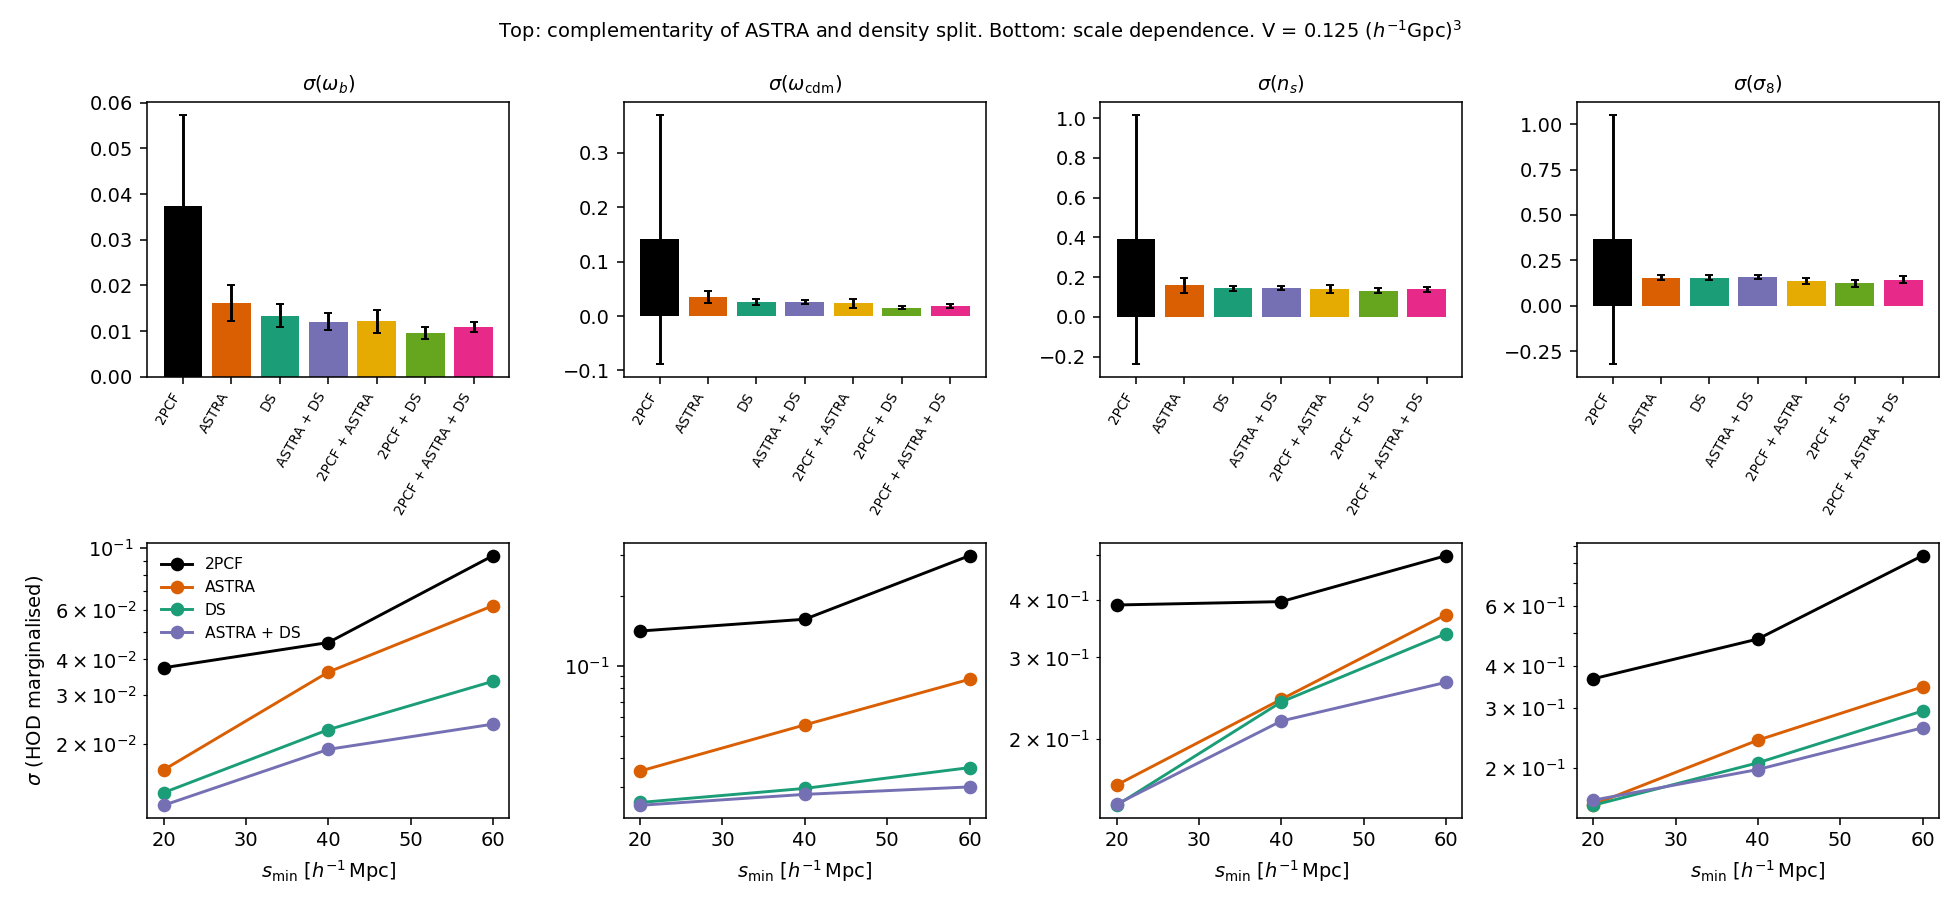
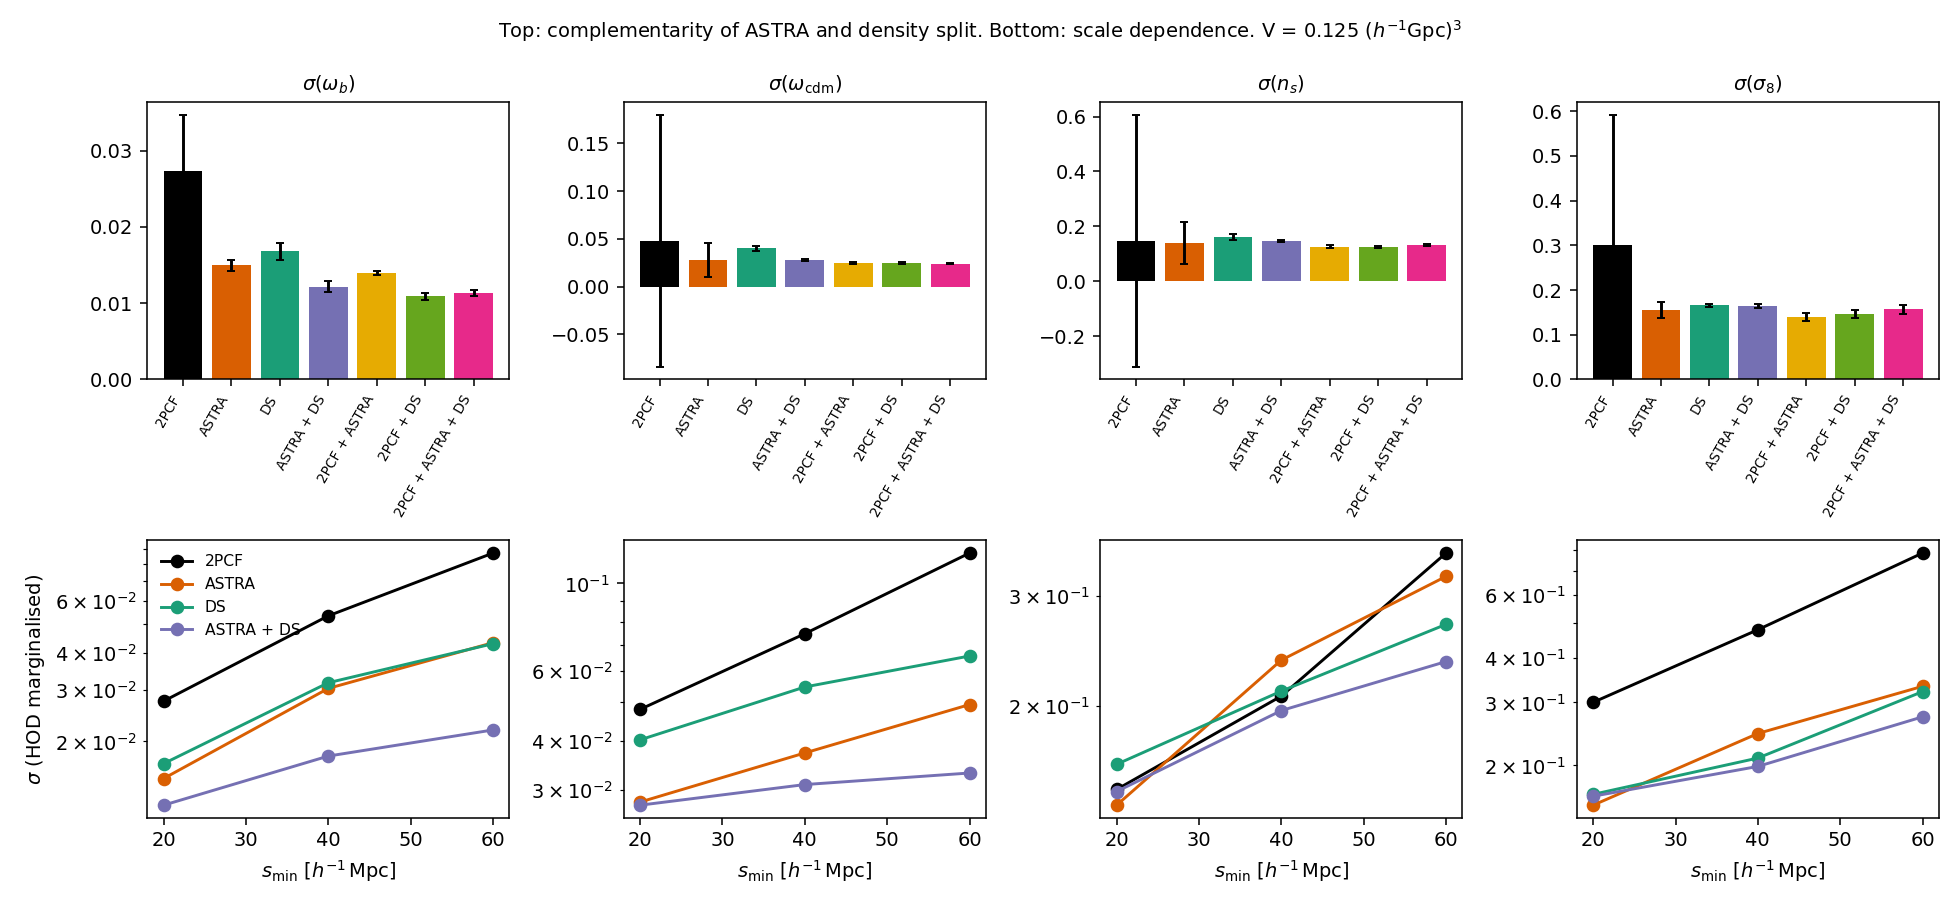
Options b/c: pair-difference loss, small-scale weight, held-out local validation, reduced pair regression

diff --git a/scripts/validate_local.py b/scripts/validate_local.py
@@ -1,0 +1,100 @@
+#!/usr/bin/env python
+"""
+Test of the emulator on the quantity the Fisher derivatives rely on: the
+differences between catalogues of the derivative grid near the fiducial HOD.
+
+The catalogues listed in data/pair_dataset.npz['holdout'] (4 local HOD
+draws per grid cosmology) are excluded from the training of the emulators
+compared here. For every grid pair (c+, c-) we form all held-out pairs
+(h_i in c+, h_j in c-) and compare the measured difference (paired subboxes,
+precise) with the emulator prediction.
+
+Metrics per statistic and parameter:
+  rel  = || emu - sim || / || sim ||          (whole difference vector)
+  chi  = rms((emu - sim) / sigma_box)         (in units of the error of one box)
+
+    python scripts/validate_local.py models_val_base models_val_pairs models_val_pairs_ssw
+Outputs: data/validate_local.json, plots/validate_local.png
+"""
+
+import sys
+import json
+import argparse
+from pathlib import Path
+from itertools import product
+
+import numpy as np
+import torch
+import matplotlib
+matplotlib.use('Agg')
+import matplotlib.pyplot as plt
+
+ROOT = Path(__file__).resolve().parents[1]
+sys.path.insert(0, str(ROOT))
+import analysis as A
+import emulator as E
+from build_pair_dataset import GRID
+
+STATS = ['gg', 'astra_rand_cross_q1', 'astra_rand_cross_q4', 'ds_rand_cross_q1', 'ds_rand_cross_q4',
+         'astra_data_cross_q4', 'ds_data_cross_q4']
+NAMES = {(100, 101): 'omega_b', (102, 103): 'omega_cdm', (104, 105): 'n_s', (106, 107): 'alpha_s',
+         (108, 109): 'w0', (110, 111): 'w0-wa', (112, 113): 'sigma8'}
+
+
+def main():
+    parser = argparse.ArgumentParser()
+    parser.add_argument('models', nargs='+', type=Path)
+    args = parser.parse_args()
+    pairs = np.load(A.DATA / 'pair_dataset.npz')
+    d = np.load(A.DATA / 'emulator_dataset.npz')
+    held = [tuple(map(int, x)) for x in pairs['holdout_ids']]
+    sub = {k: A.load(*k, los=['z']) for k in held}
+    res = {}
+    for st in STATS:
+        X, Y, ids, s, _ = E.load_dataset(st)
+        row = {(int(c), int(h)): i for i, (c, h) in enumerate(ids)}
+        sig = E.statistical_error(st)
+        emus = {m.name: E.Emulator.load(st, m) for m in args.models}
+        for cp, cm in GRID:
+            hp = [k for k in held if k[0] == cp]
+            hm = [k for k in held if k[0] == cm]
+            for a, b in product(hp, hm):
+                ma, sa, ia = sub[a]
+                mb, sb, ib = sub[b]
+                sim = A.paired_derivative(A.data_vector(ma, sa, [st])[1], A.data_vector(mb, sb, [st])[1],
+                                          ia, ib, 1.).mean(0)
+                for name, emu in emus.items():
+                    with torch.no_grad():
+                        pred = (emu(X[row[a]][None]) - emu(X[row[b]][None]))[0].numpy()
+                    r = res.setdefault(name, {}).setdefault(NAMES[(cp, cm)], {}).setdefault(st, {'rel': [], 'chi': []})
+                    r['rel'].append(float(np.linalg.norm(pred - sim) / np.linalg.norm(sim)))
+                    r['chi'].append(float(np.sqrt(np.mean(((pred - sim) / sig)**2))))
+    summary = {m: {p: {st: {k: float(np.median(v)) for k, v in dd.items()} for st, dd in dp.items()}
+                   for p, dp in dm.items()} for m, dm in res.items()}
+    (A.DATA / 'validate_local.json').write_text(json.dumps(summary, indent=1))
+
+    print('median relative error of the predicted pair differences (held-out local HODs)')
+    params = list(NAMES.values())
+    print(f'{"model":24s} ' + ' '.join(f'{p:>10s}' for p in params))
+    for m in summary:
+        print(f'{m:24s} ' + ' '.join(f'{np.median([summary[m][p][st]["rel"] for st in STATS]):10.2f}' for p in params))
+    print('\nsame, rms error in units of the error of one box:')
+    for m in summary:
+        print(f'{m:24s} ' + ' '.join(f'{np.median([summary[m][p][st]["chi"] for st in STATS]):10.2f}' for p in params))
+
+    fig, ax = plt.subplots(figsize=(9, 4))
+    width = 0.8 / len(summary)
+    for k, m in enumerate(summary):
+        ax.bar(np.arange(len(params)) + k * width, [np.median([summary[m][p][st]['rel'] for st in STATS])
+                                                    for p in params], width, label=m)
+    ax.set_xticks(np.arange(len(params)) + 0.4 - width / 2, params)
+    ax.set_ylabel('median |emu - sim| / |sim|')
+    ax.set_title('Emulator prediction of held-out pair differences of the derivative grid', fontsize=10)
+    ax.legend(fontsize=8, frameon=False)
+    fig.tight_layout()
+    fig.savefig(ROOT / 'plots' / 'validate_local.png', dpi=140)
+    print('saved data/validate_local.json, plots/validate_local.png')
+
+
+if __name__ == '__main__':
+    main()

diff --git a/scripts/build_pair_dataset.py b/scripts/build_pair_dataset.py
@@ -1,0 +1,100 @@
+#!/usr/bin/env python
+"""
+Precise differences between catalogues, to train the emulator on (option b).
+
+All catalogues share the initial conditions (ph000) and the random points,
+so the difference of two full-box measurements is much more precise than
+each of them: its error, estimated from the scatter of the 64 paired subbox
+differences / 8, is a small fraction of the statistical error of one box.
+We collect, for every statistic:
+
+* cross-cosmology pairs of the AbacusSummit derivative grid: every catalogue
+  of c+ with every catalogue of c- whose HOD is within --rmax of the fiducial
+  HOD (7 pairs: omega_b, omega_cdm, n_s, alpha_s, w0, w0-wa, sigma8);
+* within-cosmology pairs for c000 and the grid cosmologies: every catalogue
+  with the one closest to the fiducial HOD of that cosmology (HOD response at
+  fixed cosmology).
+
+--holdout N keeps N local catalogues per grid cosmology out of every pair (and
+lists them, so that train_emulator.py also removes them from the absolute
+training set): they are used by validate_local.py to test the emulator on pair
+differences it has never seen.
+
+    python scripts/build_pair_dataset.py [--rmax 1.0] [--holdout 4]   ->  data/pair_dataset.npz
+"""
+
+import sys
+import argparse
+from pathlib import Path
+from itertools import product
+
+import numpy as np
+
+ROOT = Path(__file__).resolve().parents[1]
+sys.path.insert(0, str(ROOT))
+import analysis as A
+import emulator as E
+
+GRID = [(100, 101), (102, 103), (104, 105), (106, 107), (108, 109), (110, 111), (112, 113)]
+
+
+def main():
+    parser = argparse.ArgumentParser()
+    parser.add_argument('--rmax', type=float, default=1.0)
+    parser.add_argument('--holdout', type=int, default=4)
+    parser.add_argument('--seed', type=int, default=7)
+    parser.add_argument('--out', default='pair_dataset.npz')
+    args = parser.parse_args()
+    sel = A.selection()
+    h0 = A.hod_vector(sel['fiducial']['cosmo'], sel['fiducial']['hod'])
+    d = np.load(A.DATA / 'emulator_dataset.npz')
+    row = {(int(c), int(h)): i for i, (c, h) in enumerate(d['ids'])}
+    stats = [str(s) for s in d['stat_names']]
+    rng = np.random.default_rng(args.seed)
+
+    # catalogues of each cosmology near the fiducial HOD
+    cosmos = [0] + [c for p in GRID for c in p]
+    near, holdout = {}, []
+    for c in cosmos:
+        cats = []
+        for (cc, h), i in row.items():
+            if cc == c:
+                dist = np.linalg.norm(A.hod_vector(c, h) - h0)
+                if dist <= args.rmax or c == 0:
+                    cats.append((dist, h))
+        cats.sort()
+        hods = [h for _, h in cats]
+        if c != 0 and args.holdout:
+            out = list(rng.choice(hods[1:], size=min(args.holdout, len(hods) - 2), replace=False))
+            holdout += [(c, int(h)) for h in out]
+            hods = [h for h in hods if h not in out]
+        near[c] = hods
+    pairs = []
+    for cp, cm in GRID:
+        pairs += [((cp, a), (cm, b)) for a, b in product(near[cp], near[cm])]
+    for c in cosmos:
+        anchor = near[c][0]
+        pairs += [((c, h), (c, anchor)) for h in near[c][1:]]
+    print(f'{len(pairs)} pairs ({sum(1 for p in pairs if p[0][0] != p[1][0])} cross-cosmology), '
+          f'{len(holdout)} held-out catalogues')
+
+    # per-subbox data vectors of all the catalogues involved (line of sight z)
+    needed = sorted({k for p in pairs for k in p} | set(holdout))
+    sub = {}
+    for k in needed:
+        meta, st, ids = A.load(*k, los=['z'])
+        sub[k] = {name: A.data_vector(meta, st, [name])[1] for name in stats}
+    out = {'i': np.array([row[a] for a, _ in pairs]), 'j': np.array([row[b] for _, b in pairs]),
+           'holdout': np.array([row[k] for k in holdout]), 'holdout_ids': np.array(holdout)}
+    for name in stats:
+        diff = np.array([sub[a][name] - sub[b][name] for a, b in pairs])        # (npairs, nsub, ndim)
+        out[f'delta/{name}'] = diff.mean(1)
+        out[f'sigma/{name}'] = diff.std(1, ddof=1) / np.sqrt(diff.shape[1])
+    np.savez(A.DATA / args.out, **out)
+    r = out['sigma/gg'] / E.statistical_error('gg')
+    print(f'pair-difference error / error of one box (gg): median {np.median(r):.2f}')
+    print(f'saved data/{args.out}')
+
+
+if __name__ == '__main__':
+    main()

diff --git a/scripts/pair_regression.py b/scripts/pair_regression.py
@@ -21,7 +21,7 @@ Diagnostics: leave-one-catalogue-out prediction error of the model, and the
 change of the derivatives between the shared-G, separate-G and quadratic fits
 (an estimate of the modelling systematic).
 
-    python scripts/pair_regression.py [--rmax 1.0] [--separate-g] [--quadratic]
+    python scripts/pair_regression.py [--rmax 1.0] [--separate-g] [--quadratic] [--ndir 4]
 Outputs: data/derivatives_regression{tag}.npz (per-subbox derivatives, same
 format as scripts/derivatives.py), data/derivatives_regression{tag}.json
 """
@@ -76,13 +76,36 @@ def fit(Y, dh, which, separate_g=False, quadratic=False):
     return beta[:2], loo
 
 
+def hod_directions(k, stats=('gg', 'astra_rand_cross_q1', 'astra_rand_cross_q4', 'ds_rand_cross_q1',
+                              'ds_rand_cross_q4', 'astra_data_cross_q4', 'ds_data_cross_q4')):
+    """
+    The k combinations of HOD parameters that change the statistics most, from
+    the c000 calibration catalogues only (independent of the derivative grid):
+    right singular vectors of the linear HOD response, each statistic weighted
+    by its statistical error. Returns (k, 12) and the singular values.
+    """
+    import emulator as E
+    G = []
+    for st in stats:
+        R = A.HODResponse([st])
+        G.append(R.G / E.statistical_error(st)[:, None])
+    _, sv, Vt = np.linalg.svd(np.concatenate(G), full_matrices=False)
+    return Vt[:k], sv
+
+
 def main():
     parser = argparse.ArgumentParser(description=__doc__, formatter_class=argparse.RawDescriptionHelpFormatter)
     parser.add_argument('--rmax', type=float, default=1.0, help='max distance to h0 (prior-range units)')
     parser.add_argument('--separate-g', action='store_true')
     parser.add_argument('--quadratic', action='store_true')
+    parser.add_argument('--ndir', type=int, default=0,
+                        help='regress on the ndir most important HOD directions only (0: all 12 parameters)')
     parser.add_argument('--tag', default='')
     args = parser.parse_args()
+    V = None
+    if args.ndir:
+        V, sv = hod_directions(args.ndir)
+        print(f'HOD directions: singular values {np.round(sv / sv[0], 3)} (first {args.ndir} kept)')
     sel, table = A.selection(), A.cosmology_table()
     h0 = A.hod_vector(sel['fiducial']['cosmo'], sel['fiducial']['hod'])
     stats = [str(s) for s in np.load(A.DATA / 'emulator_dataset.npz')['stat_names']]
@@ -94,6 +117,8 @@ def main():
                [(cm, h, dh) for h, dh in catalogues(cm, h0, args.rmax)]
         which = np.array([0 if c == cp else 1 for c, _, _ in cats])
         dh = np.array([d for _, _, d in cats])
+        if V is not None:
+            dh = dh @ V.T
         print(f'{param}: {np.sum(which == 0)} + {np.sum(which == 1)} catalogues within {args.rmax} of h0, '
               f'median distance {np.median(np.linalg.norm(dh, axis=1)):.2f}')
         # per-subbox measurements: (n_catalogues, n_subbox, ndim) for each statistic
@@ -121,7 +146,8 @@ def main():
               f'ds_rand_cross_q4 {diag[param]["ds_rand_cross_q4"]:.2f}')
     s = A.data_vector(meta, st, ['gg'])[0]
     out['s'] = s
-    tag = args.tag or ('_sepG' if args.separate_g else '') + ('_quad' if args.quadratic else '')
+    tag = args.tag or (('_sepG' if args.separate_g else '') + ('_quad' if args.quadratic else '')
+                       + (f'_ndir{args.ndir}' if args.ndir else ''))
     np.savez(A.DATA / f'derivatives_regression{tag}.npz', **out)
     (A.DATA / f'derivatives_regression{tag}.json').write_text(json.dumps(dict(args=vars(args), diag=diag), indent=1))
     print(f'saved data/derivatives_regression{tag}.npz')

diff --git a/emulator.py b/emulator.py
@@ -117,21 +117,38 @@ def split(ids, test=TEST_COSMOS, valid=VALID_COSMOS, exclude=()):
 
 
 def train(stat, nseeds=3, epochs=4000, lr=1e-3, weight_decay=1e-6, patience=500, holdout=True, verbose=False,
-          exclude=()):
+          exclude=(), pairs=None, lam=1., small_scale_weight=0., sigma_floor=0.05):
     """
     Train the ensemble for one statistic. With holdout=True the test and
     validation cosmologies are excluded from training (validation drives early
     stopping); with holdout=False only the test cosmologies are excluded.
+
+    pairs: optional dict from data/pair_dataset.npz (option b). The loss then
+    also includes the chi^2 of the predicted *differences* between catalogues,
+        lam * < ((f(x_i) - f(x_j)) - (y_i - y_j))^2 / (sigma_ij^2 + floor^2) >,
+    where sigma_ij is the (small) error of the paired difference; catalogues in
+    pairs['holdout'] are removed from training altogether.
+    small_scale_weight: alpha of the per-bin weight (25 / s)^alpha (option c).
     """
     X, Y, ids, s, names = load_dataset(stat)
     tr, va, te = split(ids, exclude=exclude)
     if not holdout:
         tr = tr | va
+    if pairs is not None:
+        tr[pairs['holdout']] = False
     xmin, xmax = X[tr].min(0), X[tr].max(0)
     ymean, ysigma = Y[tr].mean(0), statistical_error(stat)
     tx = lambda m: torch.as_tensor((X[m] - xmin) / (xmax - xmin))
     ty = lambda m: torch.as_tensor((Y[m] - ymean) / ysigma)
     xtr, ytr, xva, yva = tx(tr), ty(tr), tx(va), ty(va)
+    w = torch.as_tensor(np.tile((25. / s)**small_scale_weight, len(Y[0]) // len(s)))
+    w = w / w.mean()
+    if pairs is not None:
+        keep = tr[pairs['i']] & tr[pairs['j']]
+        pi, pj = torch.as_tensor(pairs['i'][keep]), torch.as_tensor(pairs['j'][keep])
+        pdelta = torch.as_tensor(pairs[f'delta/{stat}'][keep] / ysigma)
+        pvar = torch.as_tensor((pairs[f'sigma/{stat}'][keep] / ysigma)**2 + sigma_floor**2)
+        xall = torch.as_tensor((X - xmin) / (xmax - xmin))
     nets, history = [], []
     for seed in range(nseeds):
         torch.manual_seed(seed)
@@ -142,7 +159,10 @@ def train(stat, nseeds=3, epochs=4000, lr=1e-3, weight_decay=1e-6, patience=500,
         for epoch in range(epochs):
             net.train()
             opt.zero_grad()
-            loss = ((net(xtr) - ytr)**2).mean()
+            loss = (w * (net(xtr) - ytr)**2).mean()
+            if pairs is not None:
+                pred = net(xall)
+                loss = loss + lam * (w * ((pred[pi] - pred[pj]) - pdelta)**2 / pvar).mean()
             loss.backward()
             opt.step()
             net.eval()

diff --git a/scripts/train_emulator.py b/scripts/train_emulator.py
@@ -29,12 +29,14 @@ import analysis as A
 
 
 def work(args):
-    stat, nseeds, epochs, models, exclude = args
+    stat, nseeds, epochs, models, exclude, pair_file, lam, ssw = args
     import torch
     torch.set_num_threads(4)
     import emulator as E
     print(f'{stat}: start', flush=True)
-    emu, history = E.train(stat, nseeds=nseeds, epochs=epochs, verbose=True, exclude=exclude)
+    pairs = dict(np.load(pair_file)) if pair_file else None
+    emu, history = E.train(stat, nseeds=nseeds, epochs=epochs, verbose=True, exclude=exclude,
+                           pairs=pairs, lam=lam, small_scale_weight=ssw)
     models.mkdir(exist_ok=True)
     emu.save(models / f'{stat}.pt')
     res, ids = E.test_residuals(emu, stat)
@@ -115,13 +117,16 @@ def main():
     parser.add_argument('--exclude-cosmos', type=int, nargs='*', default=[],
                         help='cosmologies left out of training entirely (e.g. the derivative grid)')
     parser.add_argument('--tag', default='', help='suffix of the validation outputs')
+    parser.add_argument('--pairs', type=Path, default=None, help='data/pair_dataset.npz: train on pair differences too')
+    parser.add_argument('--lam', type=float, default=1., help='weight of the pair-difference loss')
+    parser.add_argument('--small-scale-weight', type=float, default=0., help='alpha of the (25/s)^alpha bin weight')
     args = parser.parse_args()
     import emulator as E
     stats = args.stats or [str(s) for s in np.load(A.DATA / 'emulator_dataset.npz')['stat_names']]
     # 'spawn': forking a process in which torch/OpenMP threads already exist deadlocks the children
     with mp.get_context('spawn').Pool(min(args.nproc, len(stats))) as pool:
-        results = pool.map(work, [(st, args.nseeds, args.epochs, args.models_dir, args.exclude_cosmos)
-                                  for st in stats])
+        results = pool.map(work, [(st, args.nseeds, args.epochs, args.models_dir, args.exclude_cosmos,
+                                   args.pairs, args.lam, args.small_scale_weight) for st in stats])
     out = {st: {'res': res, 'sigma': sig, 'ids': ids, 'history': hist} for st, res, sig, ids, hist in results}
     np.savez(A.DATA / f'emulator_validation{args.tag}.npz',
              **{f'{st}/{k}': np.asarray(v) for st, d in out.items() for k, v in d.items()})

diff --git a/scripts/compare_methods.py b/scripts/compare_methods.py
@@ -154,7 +154,10 @@ def main():
                         help='compress each data vector to 16 numbers (4 cosmology + 12 HOD) before the Fisher')
     args = parser.parse_args()
     fc = Forecaster(args.models_dir, args.validation_tag, compress=args.compress, regression=args.regression)
-    tag = ('_compressed' if args.compress else '') + ('_regression' if args.regression else '')
+    tag = ('_compressed' if args.compress else '') + \
+        (f'_regression_{Path(args.regression).stem.replace("derivatives_regression", "").strip("_") or "lin"}'
+         if args.regression else '') + \
+        ('' if Path(args.models_dir).name in ('models', 'models10') else f'_{Path(args.models_dir).name}')
     res = {}
 
     # 1, 3, 5: ASTRA vs DS for each type of data vector
